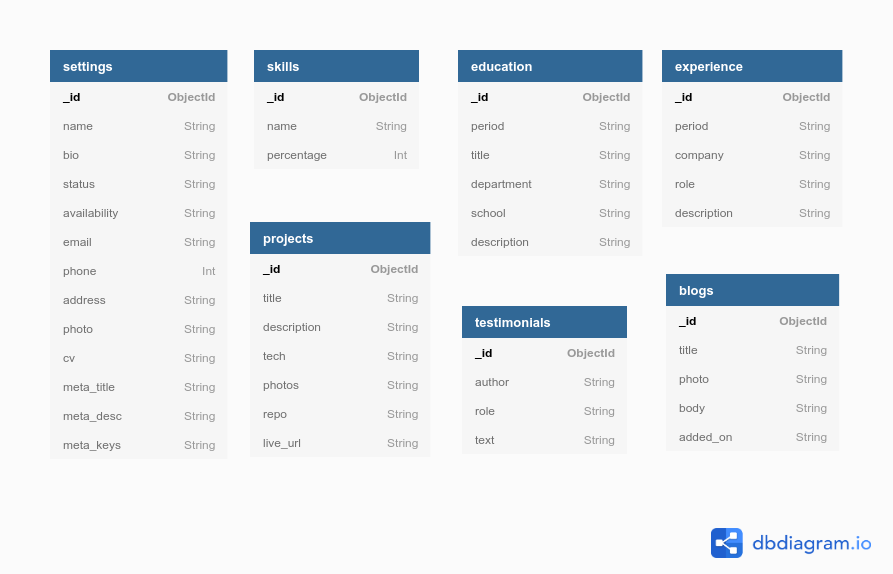
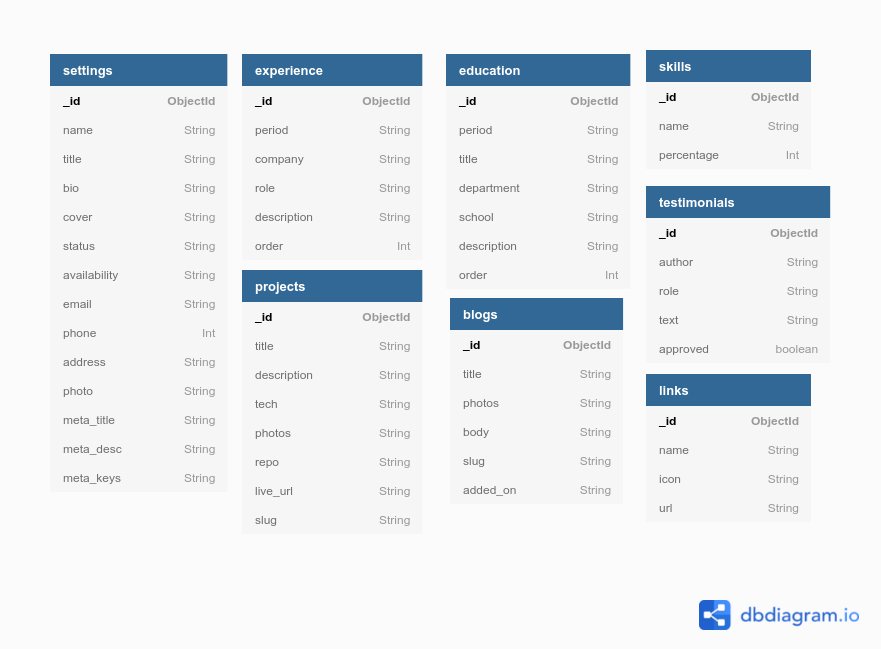
docs: update database diagram and technologies used to README.md

diff --git a/forms.py b/forms.py
@@ -1,6 +1,5 @@
 from flask_wtf import FlaskForm, RecaptchaField
 from flask_wtf.recaptcha.validators import Recaptcha
-from pymongo import message
 from wtforms import StringField, TextAreaField, SubmitField, HiddenField, IntegerField, SelectField, PasswordField
 from wtforms.fields.html5 import EmailField, IntegerRangeField, IntegerField, TelField
 from wtforms.validators import DataRequired, Email, NumberRange, Regexp, URL, Optional, InputRequired, AnyOf, Length

diff --git a/README.md b/README.md
@@ -160,11 +160,38 @@
   * [Ubuntu20.04](https://ubuntu.com/) as Operating System
   * [Visual Studio Code](https://code.visualstudio.com/) as Integrated Development Environment
 - Languages
+  * [HTML5](https://en.wikipedia.org/wiki/HTML5)
+  * [CSS3](https://en.wikipedia.org/wiki/CSS)
+  * [JS](https://en.wikipedia.org/wiki/JavaScript)
+  * [Python](https://www.python.org/)
 - Frameworks & Libraries
+  * [Bootstrap5](https://getbootstrap.com/) is used for its great responsivness, styling classes, icons and its javascript functionality.
+  * [Font Awesome](https://fontawesome.com/) icons were used for writing the auto-generated CV.
+  * [Google Fonts](https://fonts.google.com/) is used as the main font resource.
+  * [Hover.css](https://ianlunn.github.io/Hover/) is used for hover effects over buttons/links.
+  * [GLightBox](https://biati-digital.github.io/glightbox/) is used for the lightbox phot gallery.
+  * [TinyMCE](https://www.tiny.cloud/) is used for blog rich text editor.
+  * [Flask](https://flask.palletsprojects.com/en/2.0.x/) is used as back-end framework.
+  * Python modules:
+    * [flask_breadcrumbs](https://flask-breadcrumbs.readthedocs.io/en/latest/): is used to generate breadcrumbs for routes.
+    * [flask_mail](https://pythonhosted.org/Flask-Mail/) is used to send email from contact form.
+    * [pymongo](https://pymongo.readthedocs.io/en/stable/) and [flask_pymongo](https://flask-pymongo.readthedocs.io/en/latest/) are used to connect the app to a MongoDB database.
+    * [wtforms](https://wtforms.readthedocs.io/en/2.3.x/) and [flask_wtf](https://flask-wtf.readthedocs.io/en/0.15.x/) are used to generate secure forms with server side validation (inc. token validation).
+    * [html5lib_truncation](https://github.com/tonyseek/html5lib-truncation) is used to truncate blogs html text in blogs list page while keeping html opening and closing tags.
+    * [python-pdf (pydf)](https://github.com/tutorcruncher/pydf) is used to generate PDF file from html.
+    * [secure.py](https://secure.readthedocs.io/en/latest/) is used to add security headers to http response.
 - Version Control
+  * [Git](https://git-scm.com/) as Version Control System.
+  * [Github](https://www.github.com) for repository hosting.
+  * [Commitizen](https://github.com/commitizen/cz-cli) for commit linting.
 - Wireframes
   * [Balsamiq](https://balsamiq.com/) for creating [wireframes](#wireframes).
 - Media
+  * [Photopea](https://www.photopea.com/) online photo editor tool for creating the favicon and the no-photo image.
+  * [Adobe Photoshop Express](https://photoshop.adobe.com/resize) for quick resizing and cropping images for improving performance.
+  * [RealFaviconGenerator](https://realfavicongenerator.net/) for converting created favicon to all browser formats.
+  * [Coolors](https://coolors.co/) for palette image generation.
+  * [dbdiagram.io](https://dbdiagram.io/) for database diagram creation.
 - Other
 
 ## Testing
@@ -248,9 +275,9 @@
 
 ## Credits
 - ### Content
-  - [Colorpalettes.net](https://colorpalettes.net/color-palette-3728/) for the color palette (#3728).
-  - [Coolors](https://coolors.co/) for palette image generation.
 - ### Media
+  - [XYZZY estudio web](https://codepen.io/xyzzyestudioweb) codepen user for [svg section separators](https://codepen.io/xyzzyestudioweb/pen/JgdKOR).
+  - [Colorpalettes.net](https://colorpalettes.net/color-palette-3728/) for the color palette (#3728).
 - ### Code
 
 ## Aknowledgements
